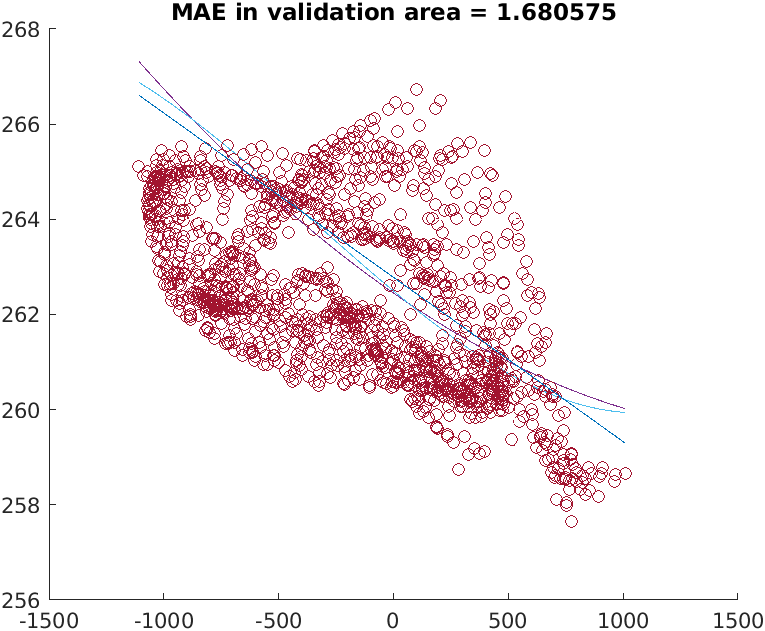
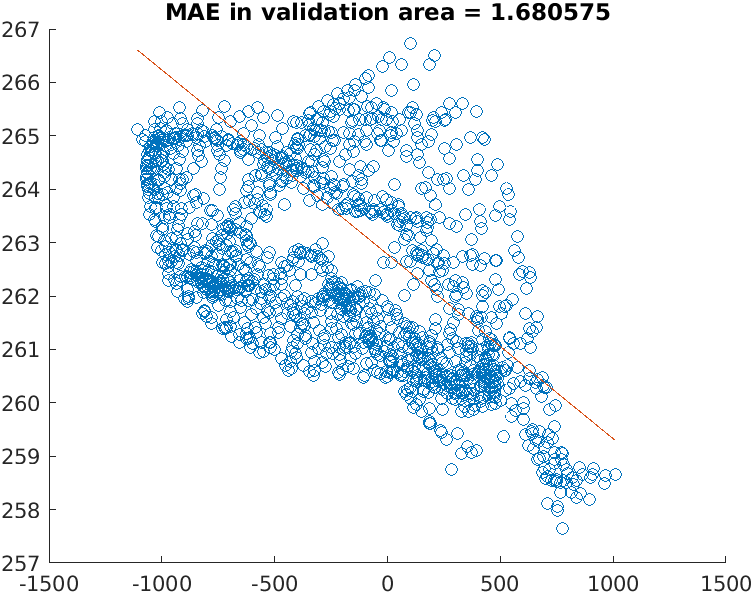
changed the extrapolation front in tempcase

diff --git a/Functions/chooseDomain.m b/Functions/chooseDomain.m
@@ -37,7 +37,7 @@ function [] = chooseDomain(md)
     % ind = md.geometry.thickness<10;
     % scatter(md.mesh.x, md.mesh.y, 20, vel, 'filled'); hold on; scatter(md.mesh.x(ind), md.mesh.y(ind), 20, vel(ind), 'r')
     % plotmodel(md, 'data', 'mesh')
-    % plotmodel(md, 'data', md.results.StressbalanceSolution.Vel, 'gridded', 1, 'levelset', md.mask.ice_levelset, 'figure', 1)
+    plotmodel(md, 'data', md.results.TransientSolution(1).Vel, 'gridded', 1, 'levelset', md.mask.ice_levelset, 'figure', 1)
     % data = load('../Data/kauq/KG_surface_1900b.txt');
     % x = data(:, 1);
     % y = data(:, 2);
@@ -54,7 +54,8 @@ function [] = chooseDomain(md)
     % plotmodel(md, 'data', data); 
     %}}}
     plotmodel(md, 'data', md.miscellaneous.dummy.temperature_field, 'figure', 333, 'title', 'Temperature', ...
-                'colorbar', 'off', 'xtick', [], 'ytick', []); 
+                'colorbar', 'off', 'xtick', [], 'ytick', [], ...
+                'gridded', 1, 'levelset', md.mask.ice_levelset); 
                 set(gca,'fontsize',12);
                 set(colorbar,'visible','off')
                 h = colorbar('Position', [0.1  0.1  0.75  0.01], 'Location', 'southoutside');
@@ -64,8 +65,8 @@ function [] = chooseDomain(md)
 
     % use exptool {{{
     % expName = CFcontour;
-    expdisp('Exp/temperature_data.exp');
-    expName = 'Exp/temperature_validation.exp';
+    % expName = 'Exp/temperature_validation.exp';
+    expName = 'Exp/1900_extrapolation_area_temp.exp';
     % expName = 'Exp/thickness_misfit_aoi.exp';
     % expName = 'Exp/friction_validation.exp';
     % expName = '../Exp/1900_refine_area.exp';
